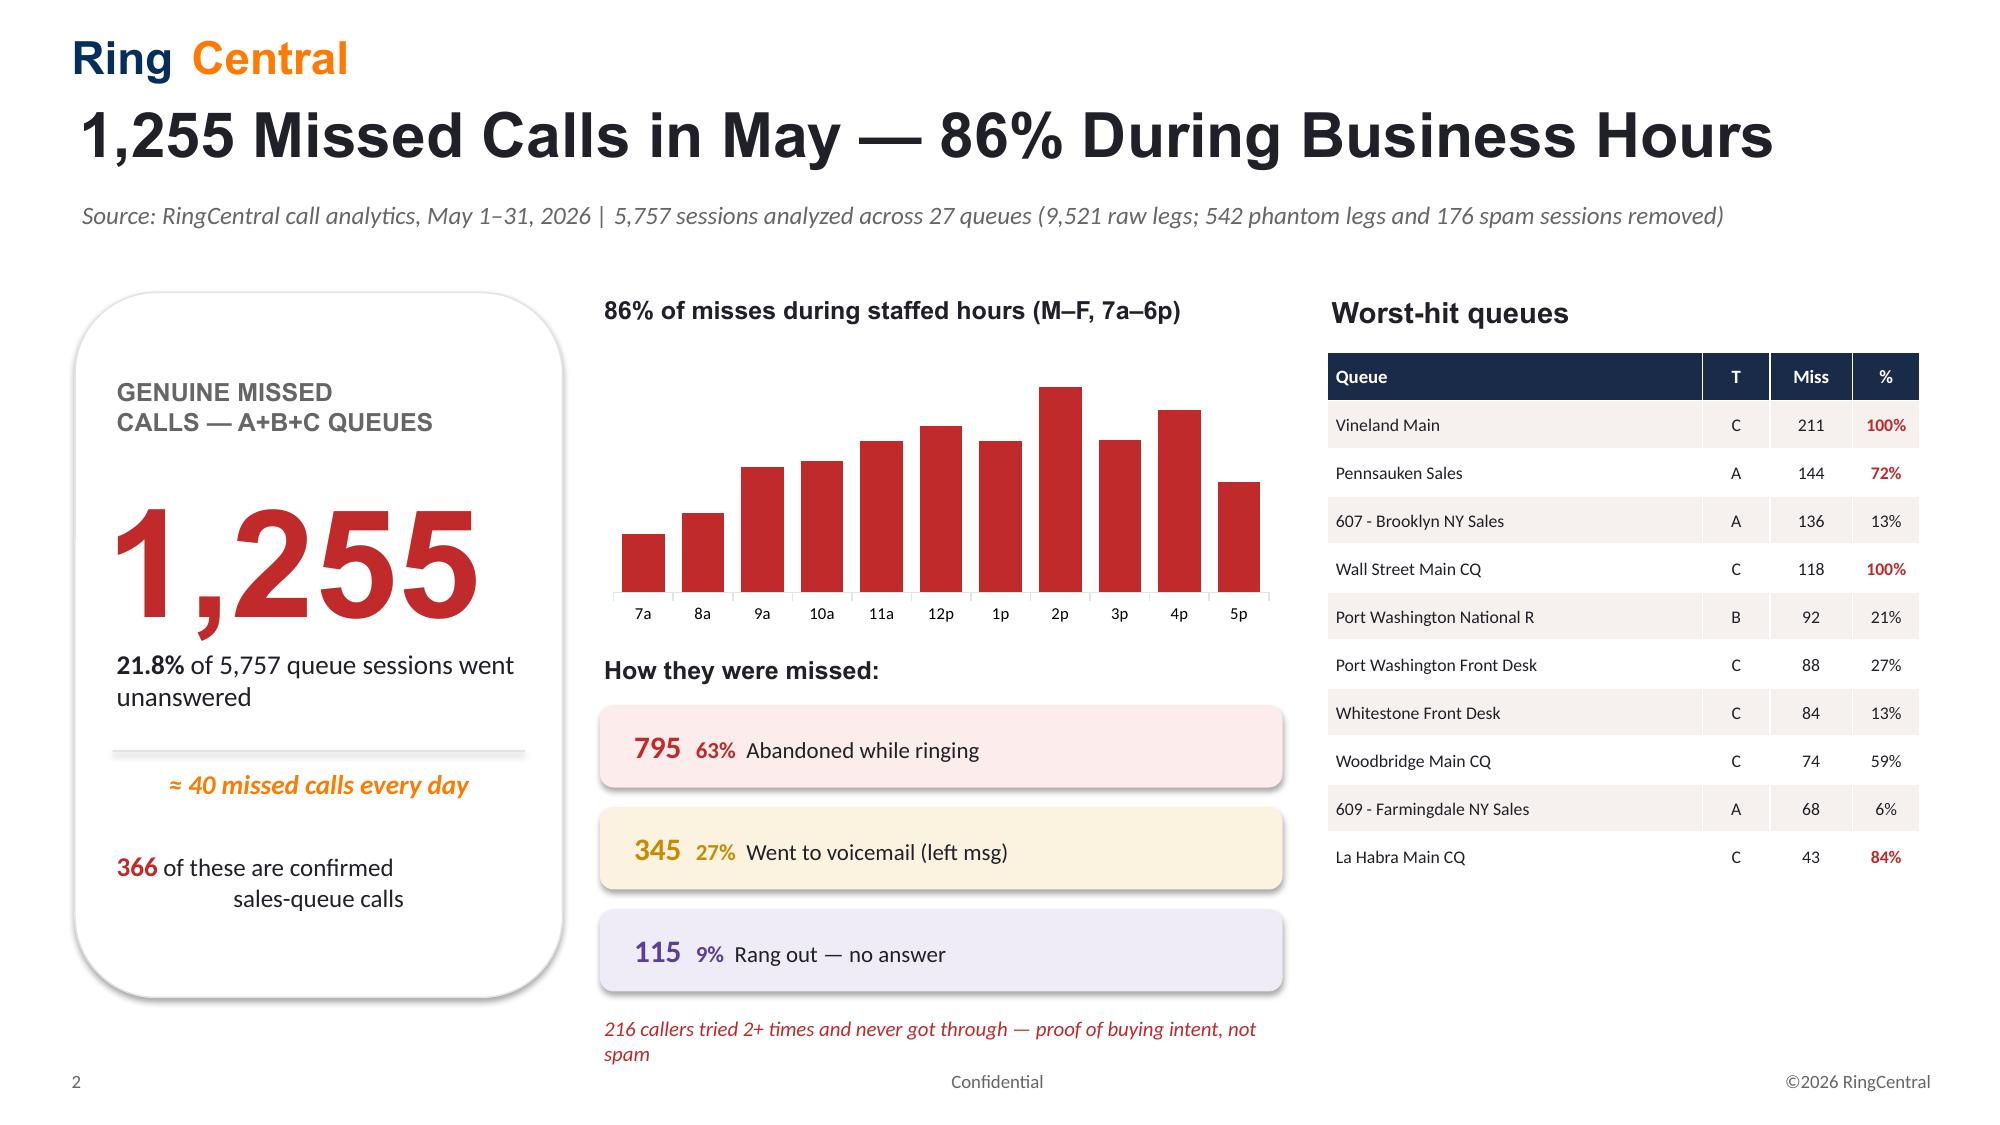
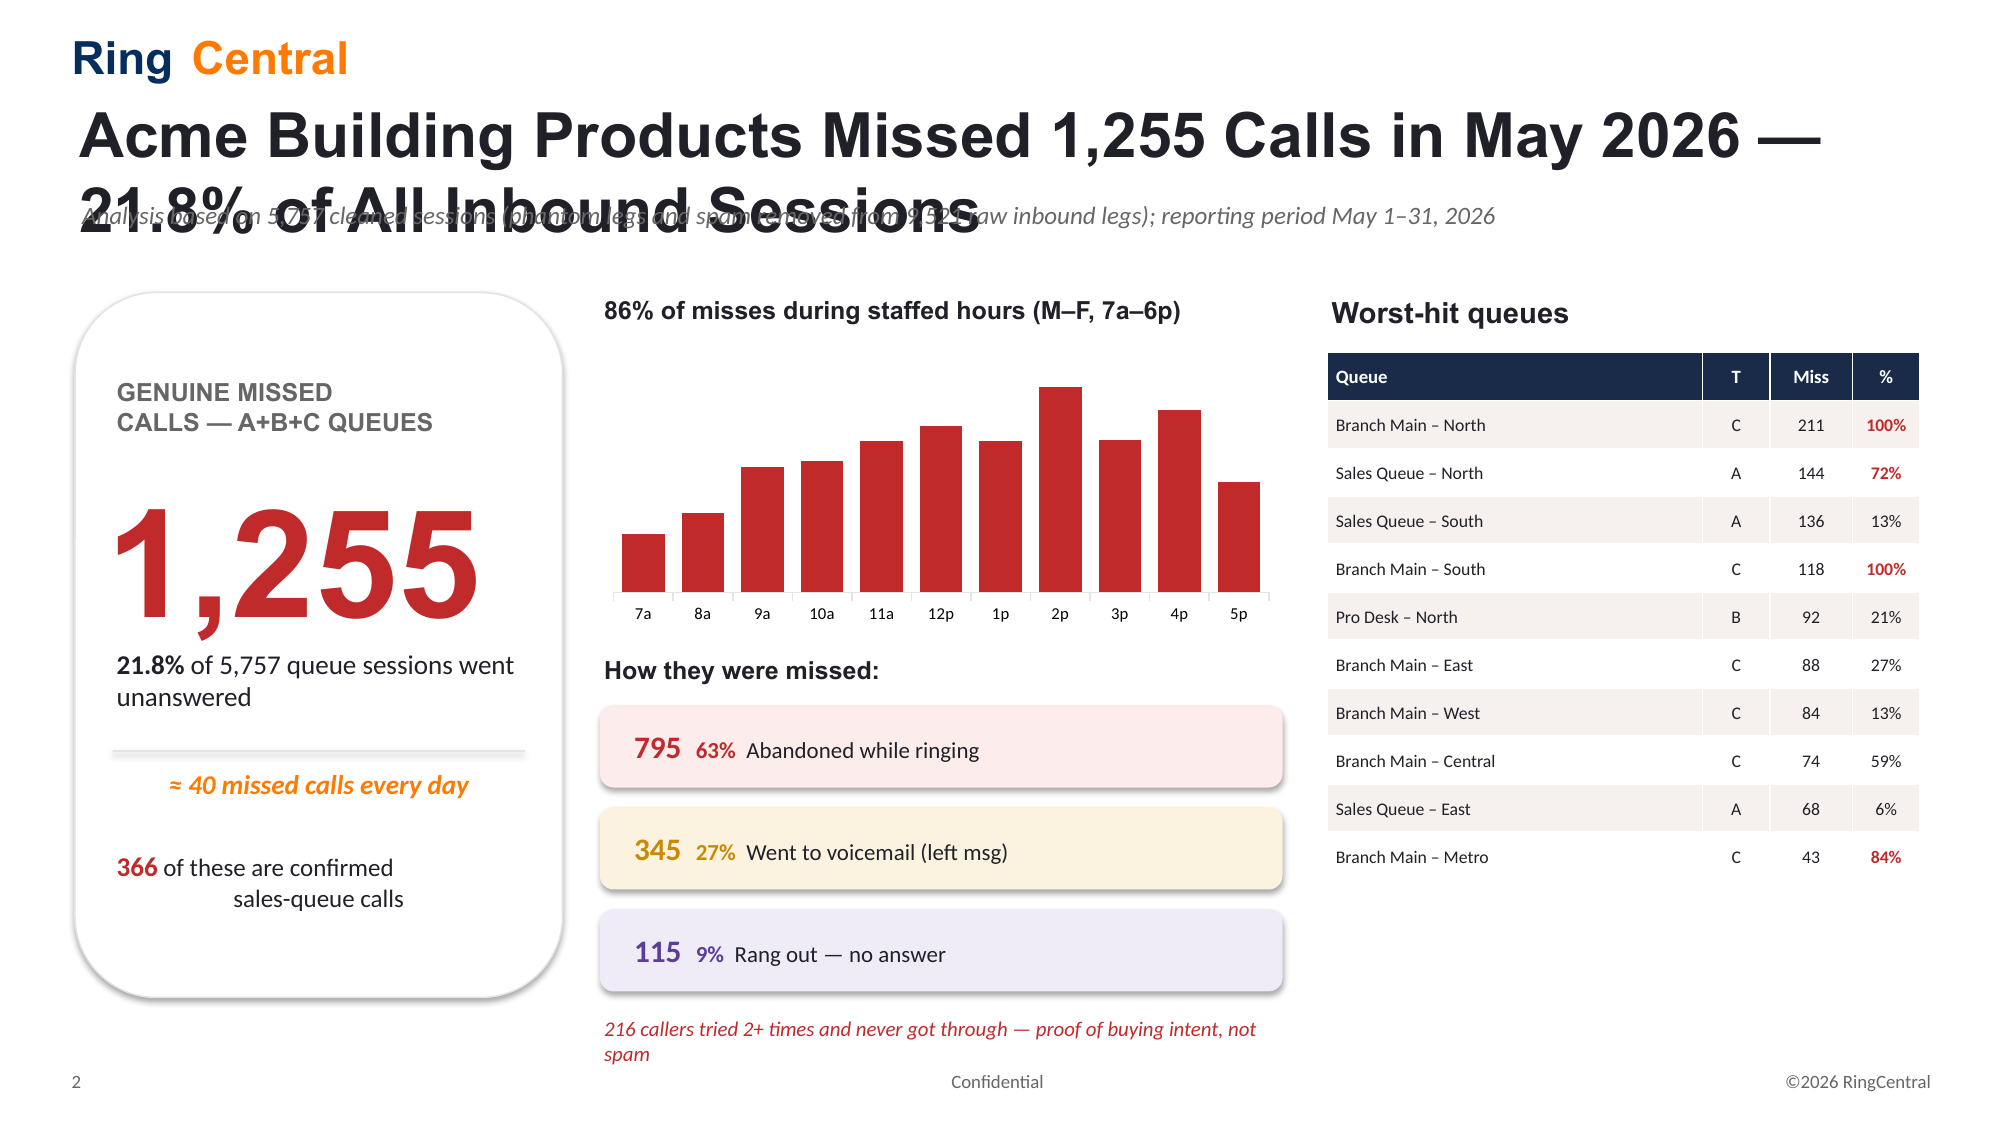
Anonymize example deck and apply RingCentral dark-blue theme
Regenerate the sample slides with generic tier-based queue labels so no
real customer queue names are shown. Switch the app background to a
RingCentral dark-blue gradient with orange accents and light heading text.

diff --git a/templates/base.html b/templates/base.html
@@ -8,12 +8,15 @@
     *, *::before, *::after { box-sizing: border-box; margin: 0; padding: 0; }
     body {
       font-family: -apple-system, BlinkMacSystemFont, "Segoe UI", Roboto, sans-serif;
-      background: #f4f6f9;
+      background: #062E5C;
+      background: linear-gradient(160deg, #062E5C 0%, #04223f 55%, #03182d 100%);
+      background-attachment: fixed;
       color: #1a1a2e;
       min-height: 100vh;
     }
     nav {
-      background: #1a1a2e;
+      background: #03182d;
+      border-bottom: 2px solid #FF7A00;
       padding: 0 2rem;
       height: 56px;
       display: flex;
@@ -21,8 +24,8 @@
       justify-content: space-between;
     }
     nav .brand { color: #ff7a00; font-weight: 700; font-size: 1.1rem; letter-spacing: 0.02em; }
-    nav a { color: #aaa; text-decoration: none; font-size: 0.9rem; }
-    nav a:hover { color: #fff; }
+    nav a { color: #cdd9ea; text-decoration: none; font-size: 0.9rem; }
+    nav a:hover { color: #FF7A00; }
     .container { max-width: 860px; margin: 0 auto; padding: 2rem 1rem; }
     .card {
       background: #fff;

diff --git a/templates/configure.html b/templates/configure.html
@@ -1,7 +1,7 @@
 {% extends "base.html" %}
 {% block content %}
-<h1>Configure Business Case</h1>
-<p class="subtitle">File: <strong>{{ filename }}</strong></p>
+<h1 style="color:#fff;">Configure Business Case</h1>
+<p class="subtitle" style="color:#bccde2;">File: <strong style="color:#fff;">{{ filename }}</strong></p>
 
 <div class="card">
   <h2>Deck details</h2>

diff --git a/templates/generate.html b/templates/generate.html
@@ -1,7 +1,7 @@
 {% extends "base.html" %}
 {% block content %}
-<h1>Generate Deck</h1>
-<p class="subtitle">File: <strong>{{ filename }}</strong> · Prepared by <strong>{{ ae_name }}</strong></p>
+<h1 style="color:#fff;">Generate Deck</h1>
+<p class="subtitle" style="color:#bccde2;">File: <strong style="color:#fff;">{{ filename }}</strong> · Prepared by <strong style="color:#fff;">{{ ae_name }}</strong></p>
 
 <div class="card" id="status-card">
   <div id="generating-state">

diff --git a/templates/index.html b/templates/index.html
@@ -8,10 +8,10 @@
        padding:0.35rem 0.85rem;border-radius:999px;margin-bottom:1rem;">
     AI Receptionist · Missed-Call Business Case
   </div>
-  <h1 style="font-size:2rem;line-height:1.2;margin-bottom:0.75rem;">
+  <h1 style="font-size:2rem;line-height:1.2;margin-bottom:0.75rem;color:#fff;">
     Turn a RingCentral call export into a board-ready business case
   </h1>
-  <p style="color:#666;font-size:1.05rem;line-height:1.55;">
+  <p style="color:#bccde2;font-size:1.05rem;line-height:1.55;">
     Upload one Excel export and Claude builds a polished, RingCentral-branded
     PowerPoint that quantifies missed revenue-line calls — fully derived from your data,
     no manual number-crunching.